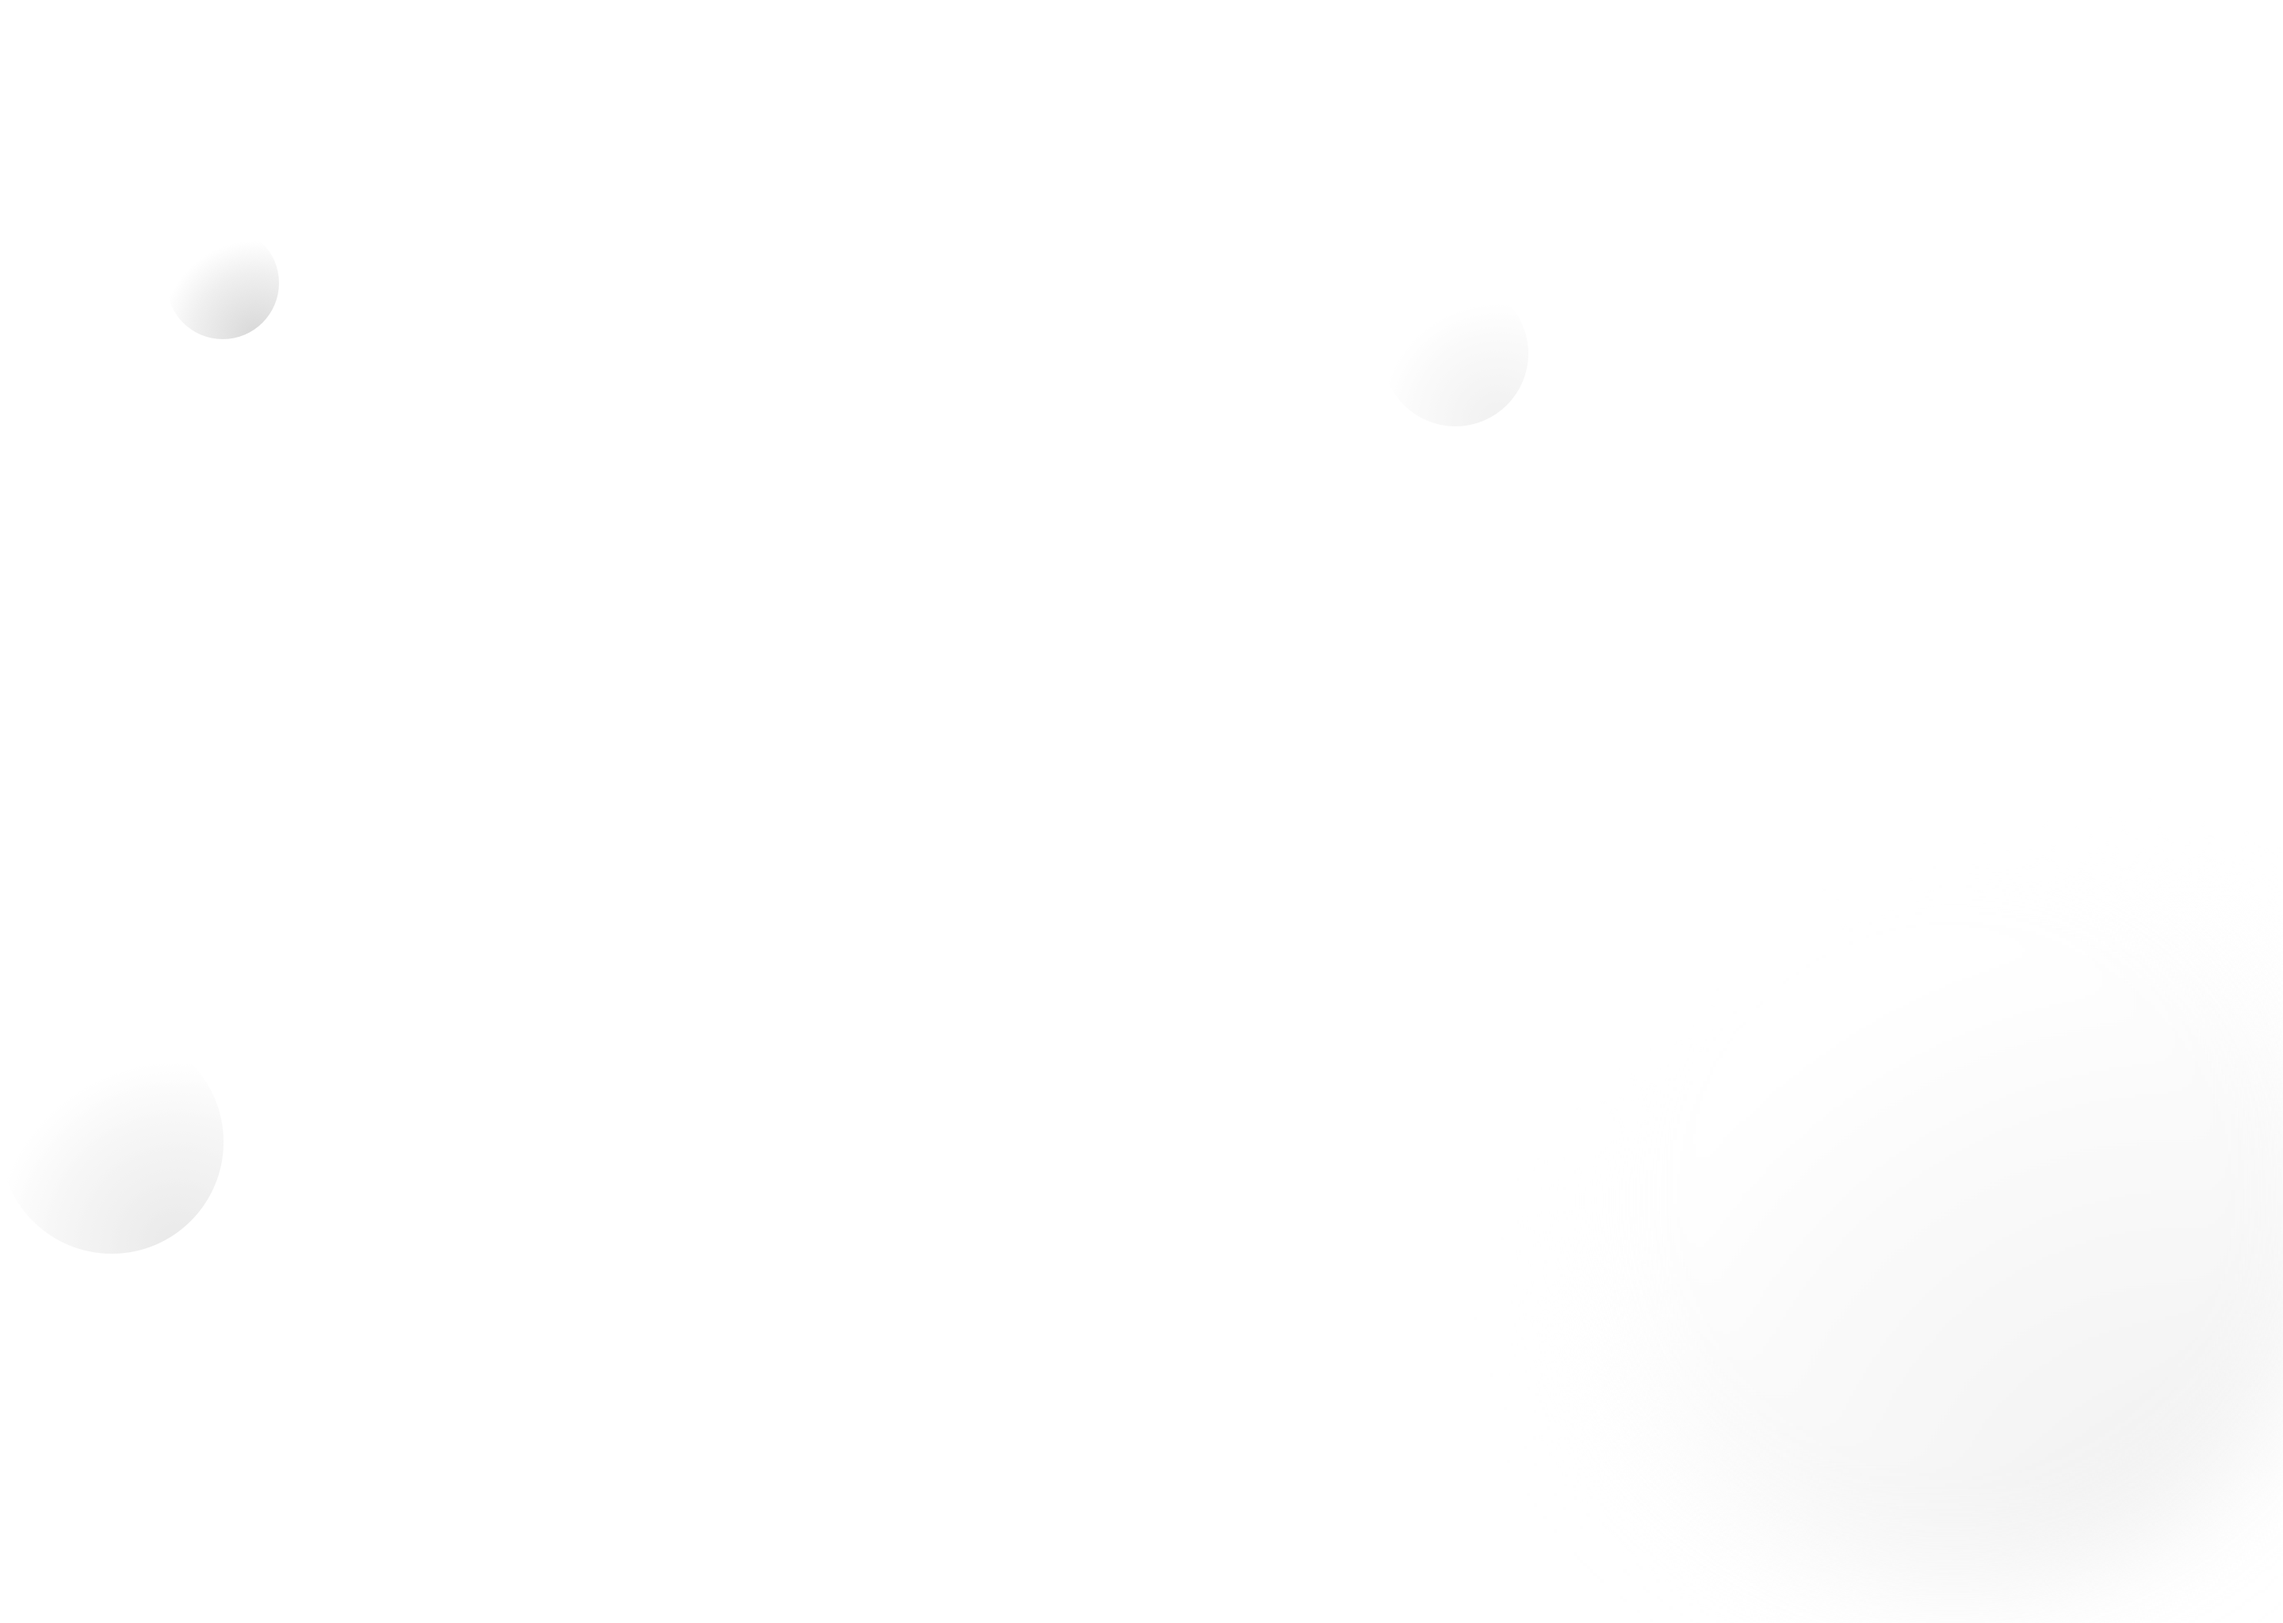
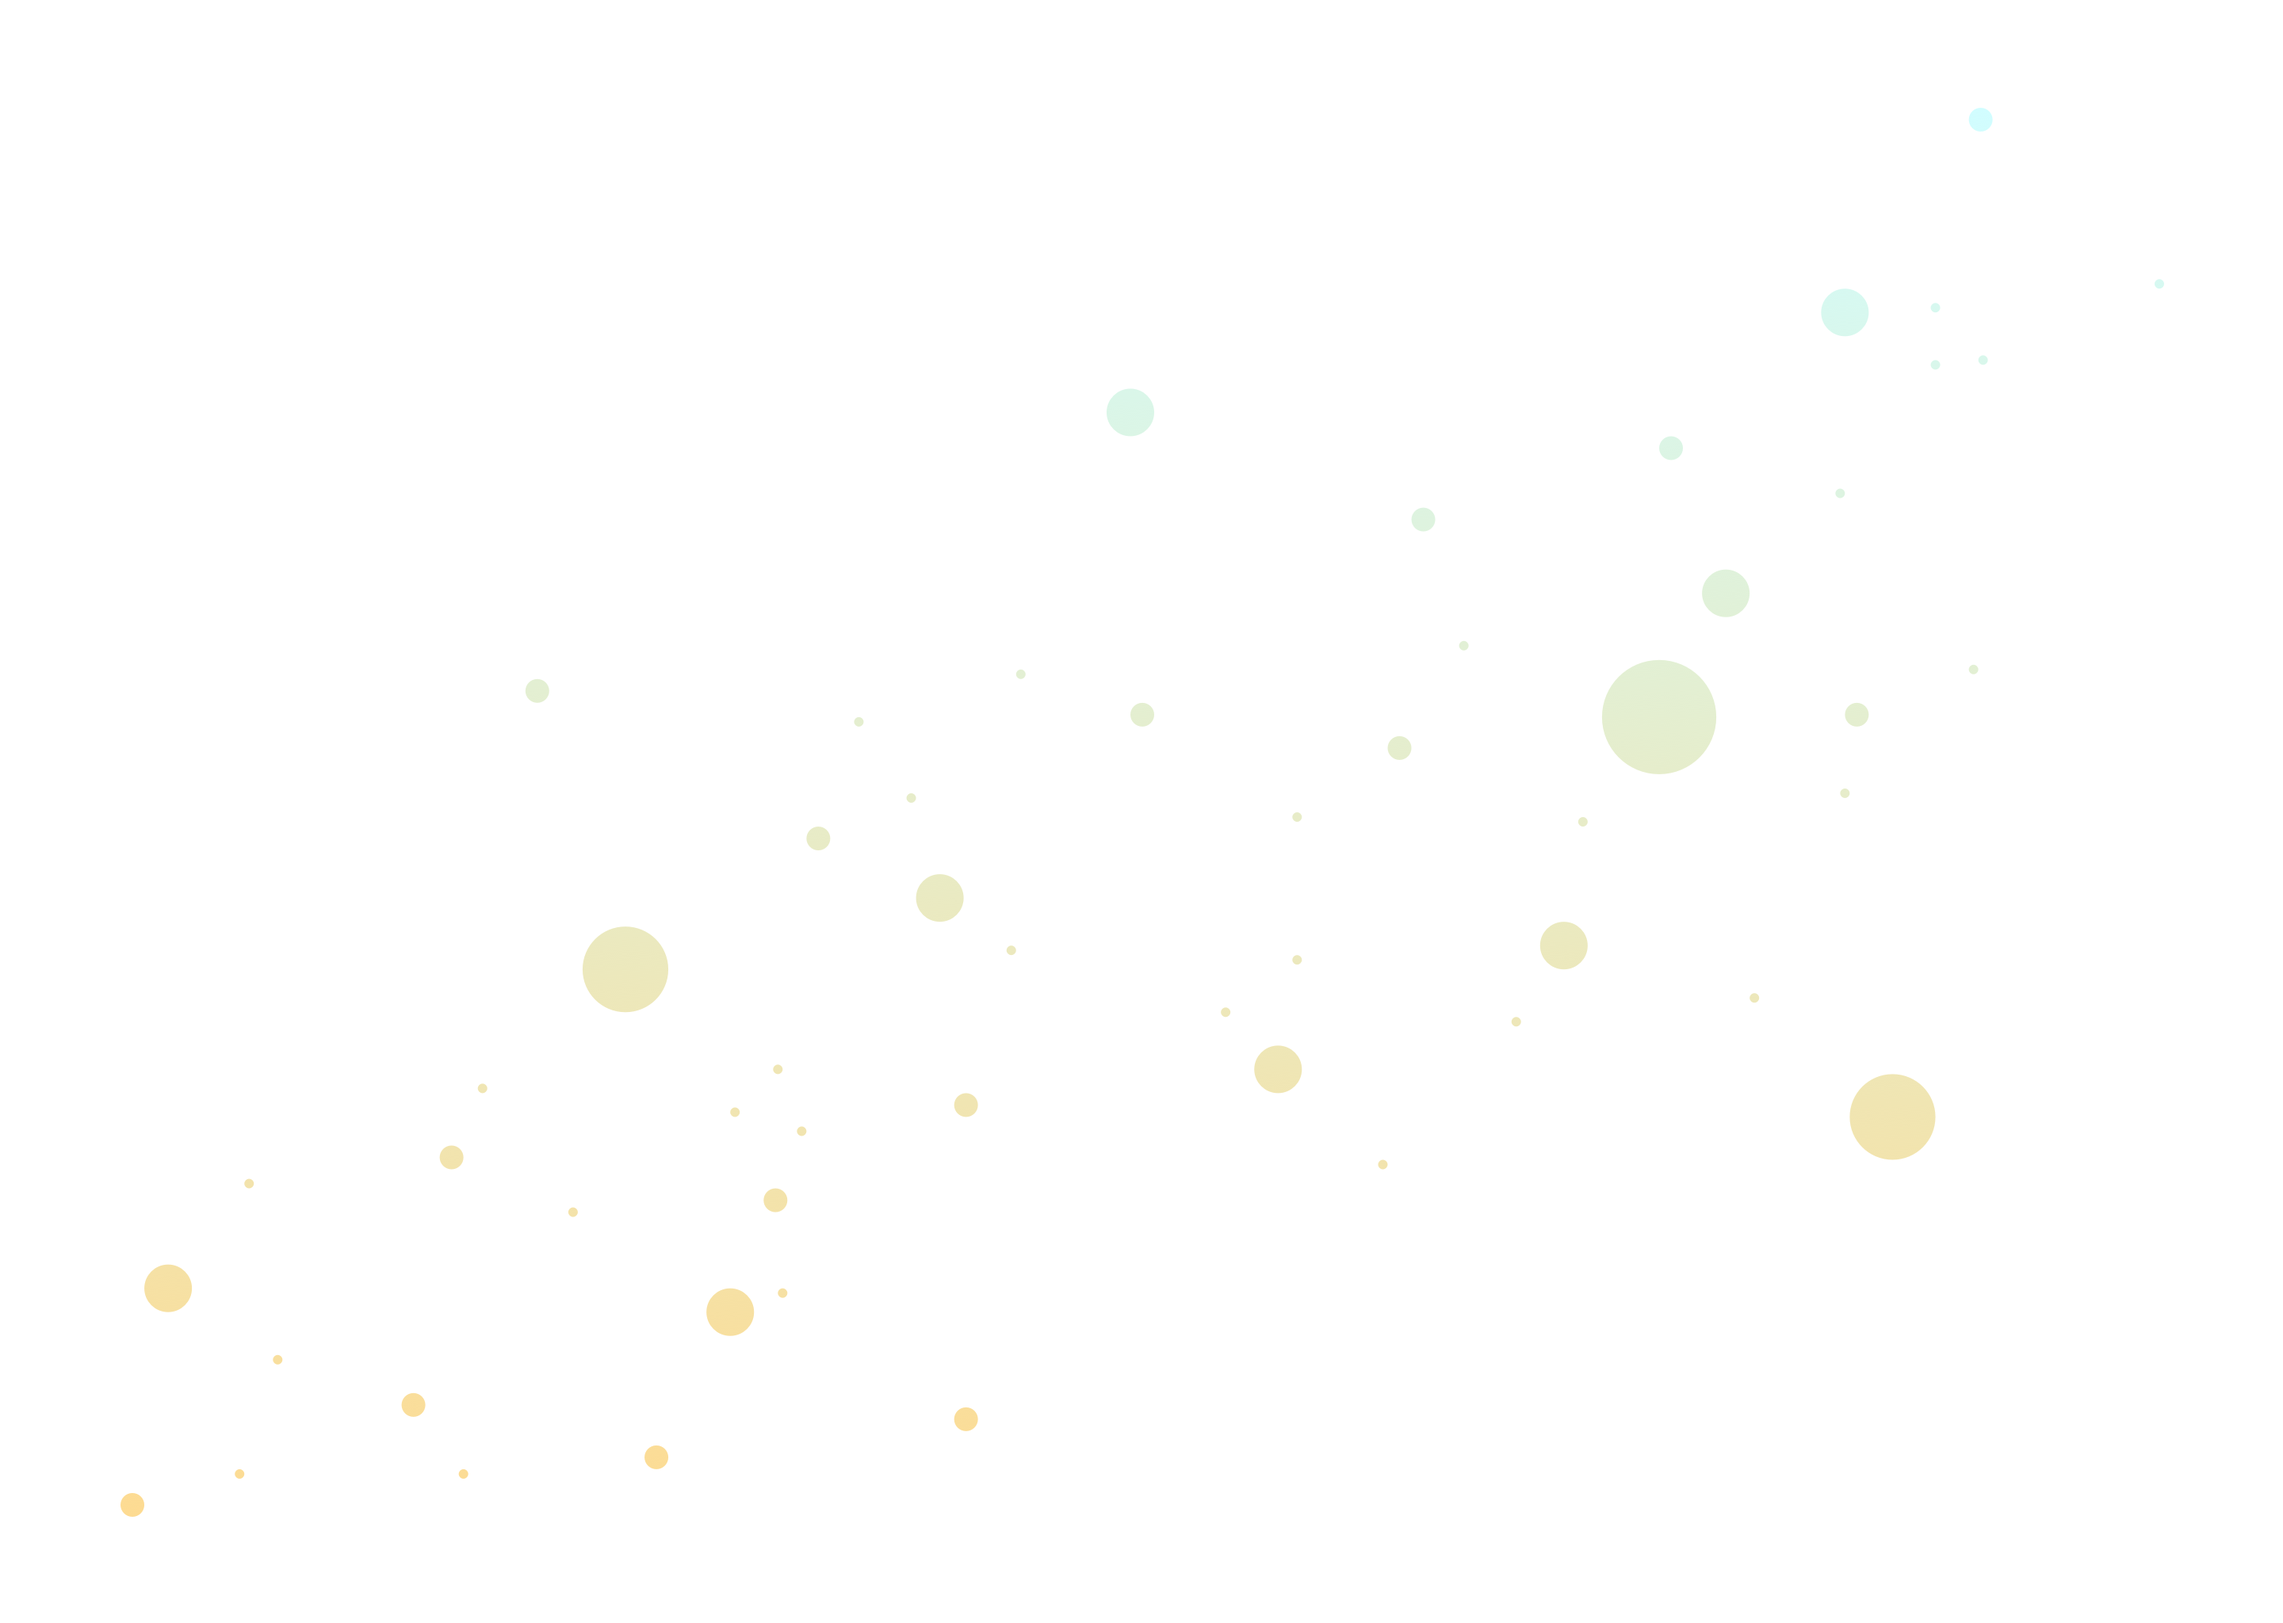
feat(footer): rename folder and add footer

diff --git a/src/js/components/general/Banner.jsx b/src/js/components/general/Banner.jsx
@@ -1,0 +1,61 @@
+import React, { Component } from 'react'
+import Radium from 'radium'
+import CSSModules from 'react-css-modules'
+// import classNames from 'classnames'
+@Radium
+export default CSSModules(class extends Component {
+    constructor (props) {
+        super(props)
+        this.handleScroll = this.handleScroll.bind(this)
+        this.state = {
+            offsetY: 0
+        }
+    }
+
+    componentDidMount () {
+        window.addEventListener('scroll', this.handleScroll)
+    }
+
+    componentWillUnmount () {
+        window.removeEventListener('scroll', this.handleScroll)
+    }
+
+    handleScroll (event) {
+        this.setState({
+            offsetY: window.pageYOffset
+        })
+
+        let depth, i, layer, layers, len, movement, topDistance, translate3d
+        topDistance = this.state.offsetY
+        layers = document.querySelectorAll("[data-type='parallax']")
+        for (i = 0, len = layers.length; i < len; i++) {
+            layer = layers[i]
+            depth = layer.getAttribute('data-depth')
+            movement = -(topDistance * depth)
+            translate3d = 'translate3d(0, ' + movement + 'px, 0)'
+            layer.style['-webkit-transform'] = translate3d
+            layer.style['-moz-transform'] = translate3d
+            layer.style['-ms-transform'] = translate3d
+            layer.style['-o-transform'] = translate3d
+            layer.style.transform = translate3d
+        }
+    }
+
+    render () {
+        return (
+            <div className="banner" onScroll={() => this.handleScroll()}>
+                <div id='hero'>
+                    <div className='layer-bg layer' data-depth='2.0' data-type='parallax'></div>
+                  <div className='layer-1 layer' data-depth='1.00' data-type='parallax'></div>
+                  <div className='layer-2 layer' data-depth='1.25' data-type='parallax'></div>
+                  <div className='layer-3 layer' data-depth='1.75' data-type='parallax'></div>
+                  <div className='layer-overlay layer' data-depth='3.85' data-type='parallax'></div>
+                  <div className='layer-4 layer' data-depth='3.00' data-type='parallax'></div>
+                </div>
+                <div id='hero-mobile'>
+                    <img src={require('static/mb-bg.png')}/>
+                </div>
+            </div>
+        )
+    }
+}, require('css/general/Banner.styl'))

diff --git a/src/js/components/App.jsx b/src/js/components/App.jsx
@@ -7,15 +7,24 @@ import CSSModules from 'react-css-modules'
 export default CSSModules(class extends Component {
     render () {
         return (
-            <StyleRoot>
+            <StyleRoot style={{
+                height: '100%',
+                width: '100%'
+            }}>
                 <div style={{
+                    position: 'relative',
                     display: 'flex',
-                    justifyContent: 'center'
+                    justifyContent: 'center',
+                    alignItems: 'center',
+                    height: '100%'
                 }}>
-                    { this.props.children }
+                    <div className="content--wrapper">
+                        { this.props.children }
+                    </div>
                     { process.env.NODE_ENV !== 'production' ? <Containers.DevTools/> : null }
-                    <Containers.navbar.Navbar />
-                    <Containers.banner.Banner />
+                    <Containers.general.Navbar />
+                    <Containers.general.Banner />
+                    <Containers.general.Footer />
                 </div>
             </StyleRoot>
         )

diff --git a/src/js/components/general/Footer.jsx b/src/js/components/general/Footer.jsx
@@ -43,17 +43,9 @@ export default CSSModules(class extends Component {
 
     render () {
         return (
-            <div className="banner" onScroll={() => this.handleScroll()}>
-                <div id='hero'>
-                    <div className='layer-bg layer' data-depth='0.10' data-type='parallax'></div>
-                  <div className='layer-1 layer' data-depth='0.50' data-type='parallax'></div>
-                  <div className='layer-2 layer' data-depth='2.50' data-type='parallax'></div>
-                  <div className='layer-3 layer' data-depth='2.80' data-type='parallax'></div>
-                  <div className='layer-overlay layer' data-depth='3.85' data-type='parallax'></div>
-                  <div className='layer-4 layer' data-depth='3.00' data-type='parallax'></div>
-                </div>
-                <div id='hero-mobile'></div>
+            <div className="footer">
+                {/* <img src={require('static/footer.png')}/> */}
             </div>
         )
     }
-}, require('css/banner/Banner.styl'))
+}, require('css/general/Footer.styl'))

diff --git a/src/js/containers/index.js b/src/js/containers/index.js
@@ -1,5 +1,5 @@
 import App from './App'
-import banner from './banner'
+import general from './general'
 import intro from './intro'
 import map from './map'
 import news from './news'
@@ -9,10 +9,9 @@ import staff from './staff'
 import transport from './transport'
 import DevTools from './DevTools'
 
-import navbar from './navbar'
 export default {
     App,
-    banner,
+    general,
     intro,
     map,
     news,
@@ -20,6 +19,5 @@ export default {
     sponsor,
     staff,
     transport,
-    DevTools,
-    navbar
+    DevTools
 }

diff --git a/src/js/components/index.js b/src/js/components/index.js
@@ -1,5 +1,5 @@
 import App from './App'
-import banner from './banner'
+import general from './general'
 import intro from './intro'
 import map from './map'
 import news from './news'
@@ -8,16 +8,14 @@ import sponsor from './sponsor'
 import staff from './staff'
 import transport from './transport'
 
-import navbar from './navbar'
 export default {
     App,
-    banner,
+    general,
     intro,
     map,
     news,
     schedule,
     sponsor,
     staff,
-    transport,
-    navbar
+    transport
 }

diff --git a/src/js/containers/general/Footer.js b/src/js/containers/general/Footer.js
@@ -7,4 +7,4 @@ const mapStateToProps = () => ({
 const mapDispatchToProps = (dispatch) => ({
 })
 
-export default connect(mapStateToProps, mapDispatchToProps)(Components.banner.Banner)
+export default connect(mapStateToProps, mapDispatchToProps)(Components.general.Footer)

diff --git a/src/js/containers/general/Navbar.js b/src/js/containers/general/Navbar.js
@@ -7,4 +7,4 @@ const mapStateToProps = () => ({
 const mapDispatchToProps = (dispatch) => ({
 })
 
-export default connect(mapStateToProps, mapDispatchToProps)(Components.navbar.Navbar)
+export default connect(mapStateToProps, mapDispatchToProps)(Components.general.Navbar)

diff --git a/src/js/containers/general/Banner.js b/src/js/containers/general/Banner.js
@@ -1,0 +1,10 @@
+import { connect } from 'react-redux'
+import Components from 'components'
+
+const mapStateToProps = () => ({
+})
+
+const mapDispatchToProps = (dispatch) => ({
+})
+
+export default connect(mapStateToProps, mapDispatchToProps)(Components.general.Banner)

diff --git a/src/js/components/general/Navbar.jsx b/src/js/components/general/Navbar.jsx
@@ -82,4 +82,4 @@ export default CSSModules(class extends Component {
             </div>
         )
     }
-}, require('css/navbar/Navbar.styl'))
+}, require('css/general/Navbar.styl'))

diff --git a/src/js/components/general/index.js b/src/js/components/general/index.js
@@ -1,0 +1,9 @@
+import Banner from './Banner'
+import Footer from './Footer'
+import Navbar from './Navbar'
+
+export default {
+    Banner,
+    Footer,
+    Navbar
+}

diff --git a/src/js/containers/general/index.js b/src/js/containers/general/index.js
@@ -1,0 +1,9 @@
+import Banner from './Banner'
+import Footer from './Footer'
+import Navbar from './Navbar'
+
+export default {
+    Banner,
+    Footer,
+    Navbar
+}
